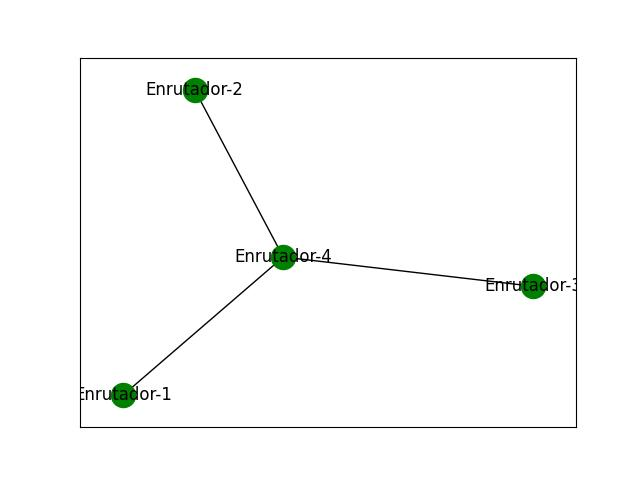
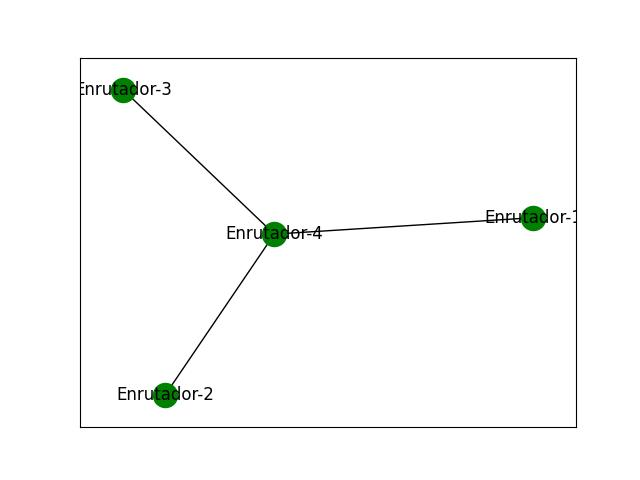
Imagen topologia lista

diff --git a/static/scripts.js b/static/scripts.js
@@ -2,7 +2,10 @@
 // Documento
 document.addEventListener('DOMContentLoaded', cargarTopologia);
 
-async function cargarTopologia() {
+/* Variables y constantes*/
+let topologia = null;
+
+async function cargarTopologia() { // Consultamos la API para obtener la topologia
     const response = await fetch('/topologia',
         {
             method: 'POST',
@@ -17,6 +20,7 @@ async function cargarTopologia() {
             })
         }
     );
-    const data = await response.json();
-    console.log(data);
+    // Obtenemos la imagen y la asignamos
+    const blob = await response.blob();
+    document.querySelector("#imagen-topologia").src = window.URL.createObjectURL(blob);
 };

diff --git a/static/index.html b/static/index.html
@@ -23,7 +23,7 @@
                 <!-- Topología -->
                 <div class="topologia mt-5 flex flex-col items-center">
                     <h2 class="text-gray-700 font-bold text-center w-100 text-md mb-2 block">Topología</h2>
-                    <img src="/static/topologia.jpg" alt="Topología de la red" class="max-w-full max-h-96">
+                    <img src="" id="imagen-topologia" alt="Topología de la red" class="max-w-full max-h-96">
                 </div>
 
                 <!-- opciones de administración -->

diff --git a/red.py b/red.py
@@ -12,19 +12,19 @@ class Red():
         self.password = password
 
     def leerTopologia(self):
+        # Obteniendo información de los routers
         routers = {}
         router_cercano = Router(self.ip, self.name, self.user, self.password)
         router_cercano.buscarVecinos(routers)
 
-        plt.clf()
+        # Generano gráfico
+        plt.clf() # Limpiando imagen
         G = nx.Graph()
-        for router in routers:
+        for router in routers: # Agregando routers
             G.add_node(router, name=router)
-        for r1 in routers:
+        for r1 in routers: # Generando conexiones
             for r2 in routers[r1]["conectados"]:
                 G.add_edge(r1, r2)
 
-        nx.draw_networkx(G, with_labels=True, node_color="g")
+        nx.draw_networkx(G, with_labels=True, node_color="g") # Creando gráfico
         plt.savefig("static/topologia.jpg")
-
-        return routers

diff --git a/app.py b/app.py
@@ -3,7 +3,7 @@ from red import Red
 import logging
 
 # logging.basicConfig(level=logging.DEBUG, format='%(asctime)s - %(levelname)s - %(message)s', datefmt='%d-%b-%y %H:%M:%S', handlers=[logging.FileHandler('app.log')])
-logging.basicConfig(level=logging.WARNING, format='%(levelname)s: %(message)s')
+logging.basicConfig(level=logging.DEBUG, format='%(levelname)s: %(message)s')
 
 app = Flask(__name__)
 red = None
@@ -31,8 +31,9 @@ def obtenerTopologia():
     red = Red(ip, name, user, password)
     
     # Leyendo la topologia
-    topologia = red.leerTopologia()
-    return jsonify(topologia)
+    red.leerTopologia() # almacena en el archivo topologia.py
+    
+    return send_file('static/topologia.jpg')
 
 
 if __name__ == '__main__':

diff --git a/router.py b/router.py
@@ -14,7 +14,7 @@ class Router:
         if self.name in routers.keys(): # Si ya fue obtenido, no lo volvemos a obtener
             return
         
-        mensaje = "Conectando a " + self.name + " con " + self.user + ": " + self.password
+        mensaje = "Conectando a " + self.name
         logging.debug(mensaje)
 
         """ Nos conectamos al router """
